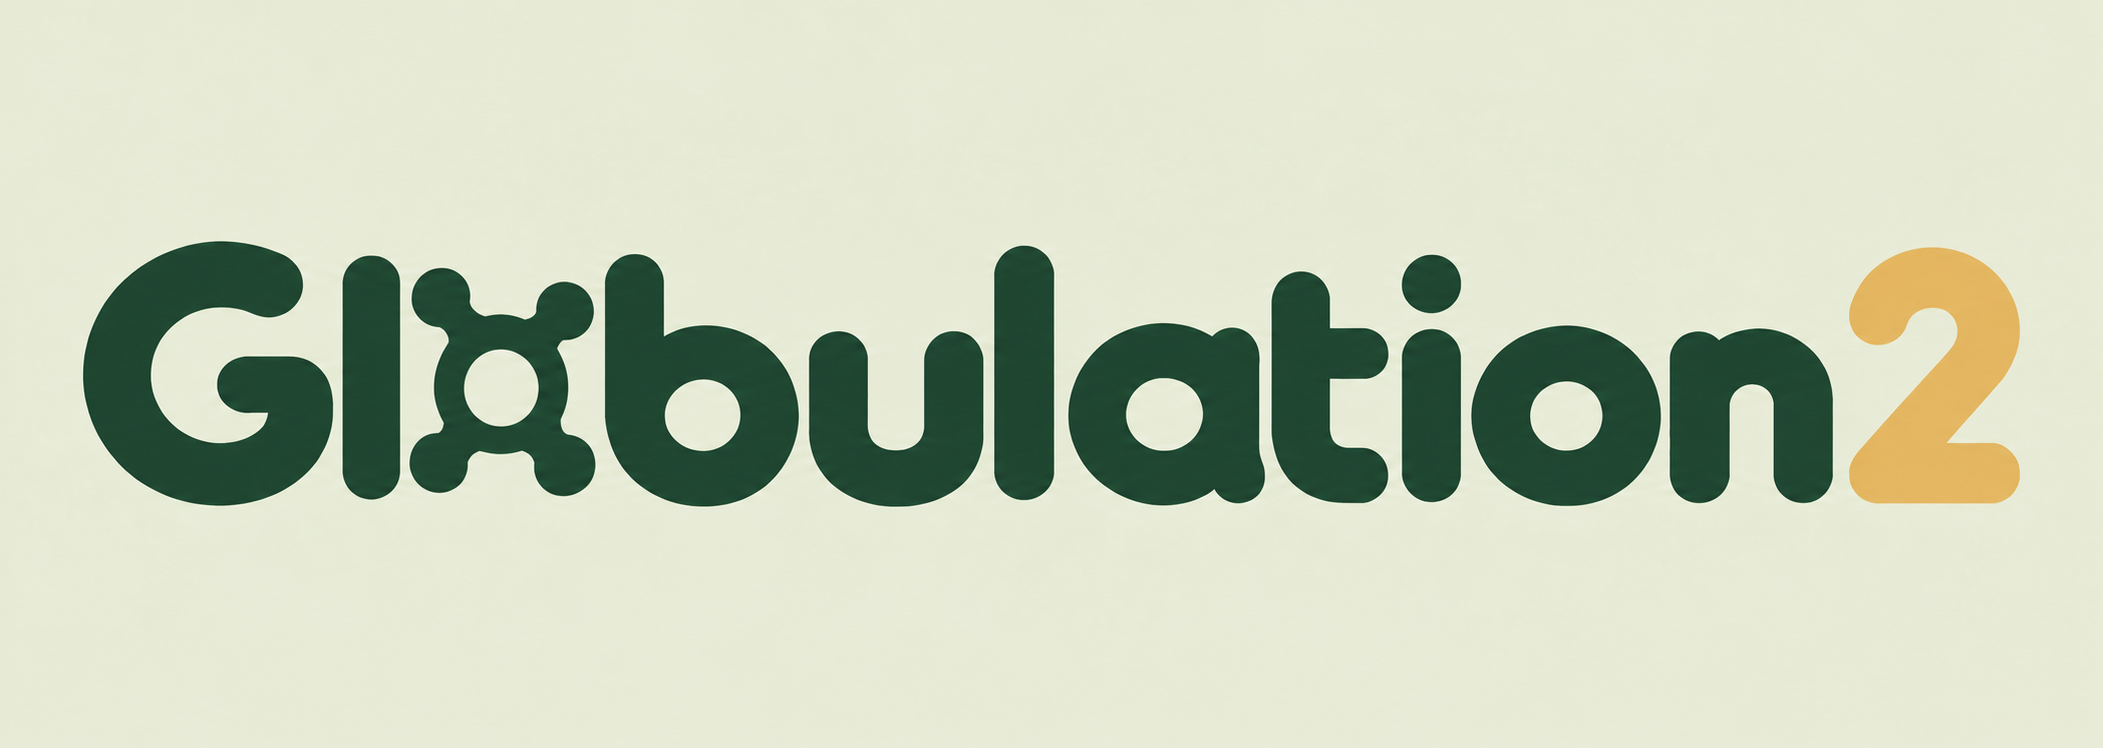
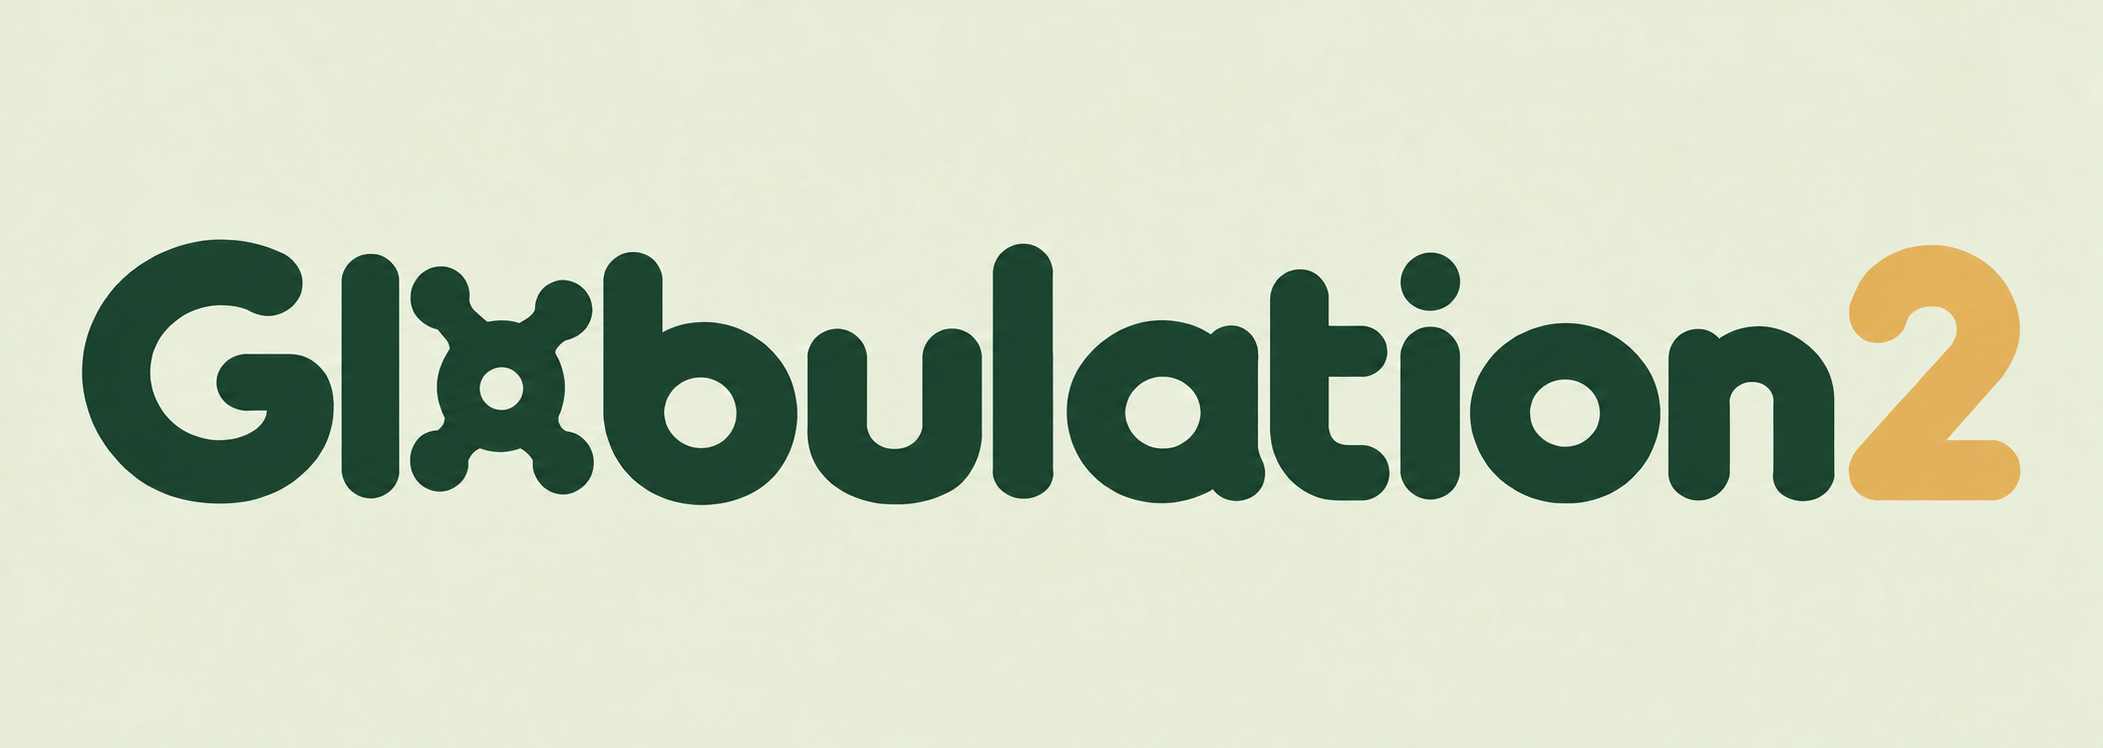
Refine Glob wordmark opening and refresh PR media

diff --git a/docs/frontend-refresh/README.md b/docs/frontend-refresh/README.md
@@ -242,6 +242,8 @@ first “o” based on the faceless, four-limbed Glob in the repository's app ic
 and worker sprite. The source was made with the built-in image-generation tool.
 The final edit prompt preserved the rounded lettering and gold “2”, replaced
 the first “o” with the actual Glob silhouette, and kept one opening in its body.
+The approved final revision reduces that opening below the size of the “b”
+opening, giving the Glob more visual weight while retaining the letterform.
 
 The source includes a pale matte. Menu initialization recovers transparency for
 the two flat ink colors once at the fitted display size; this includes openings
